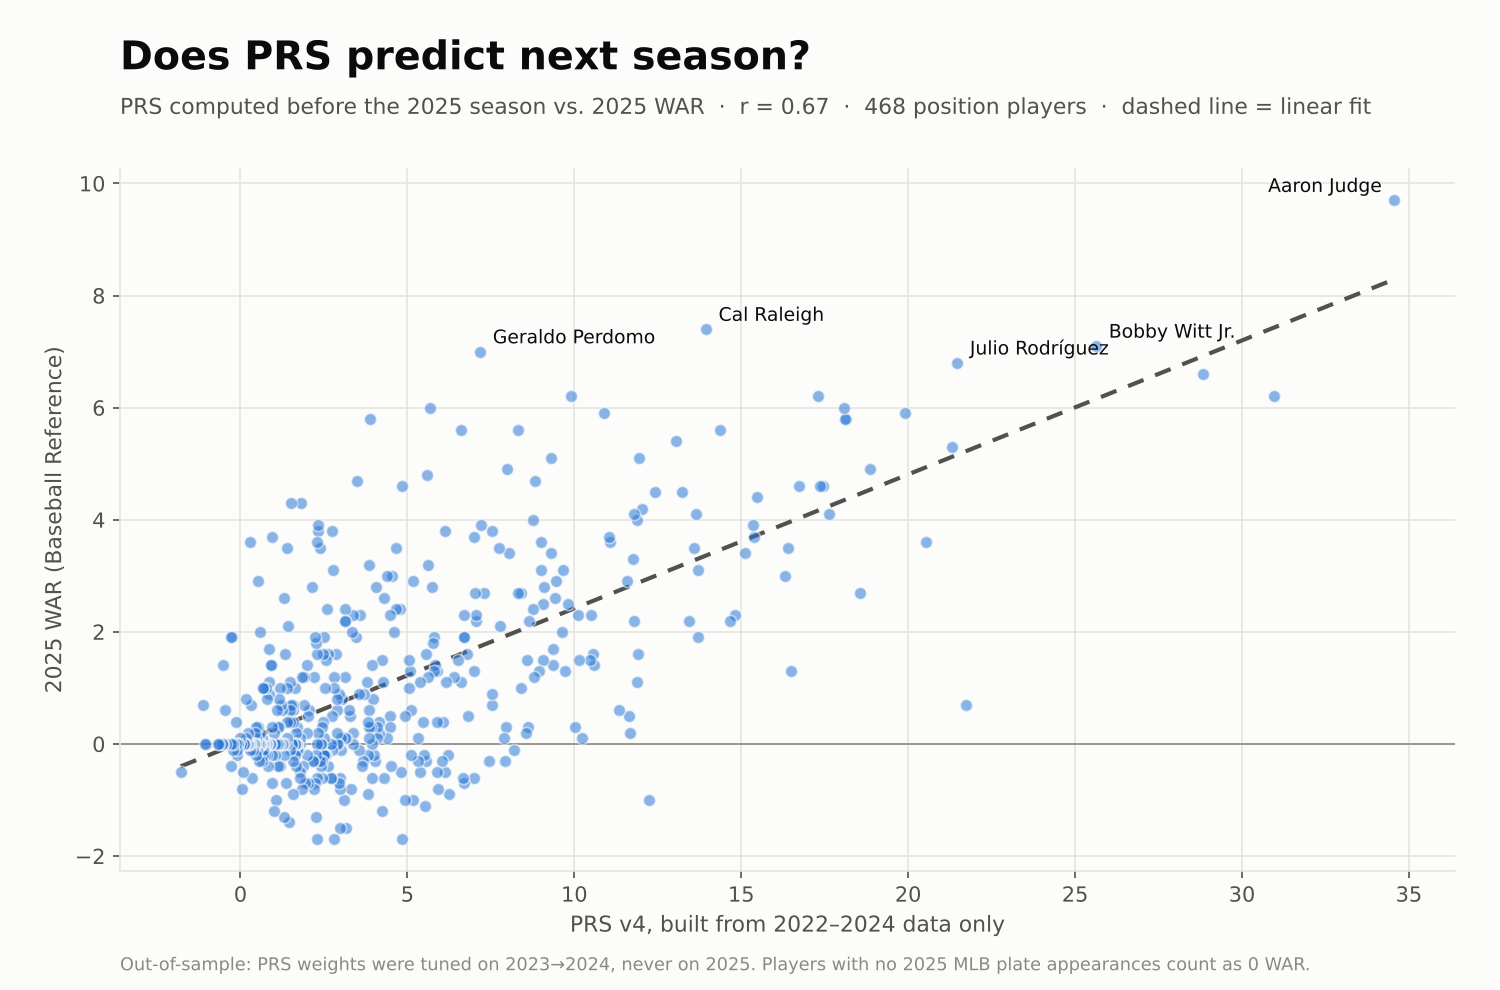
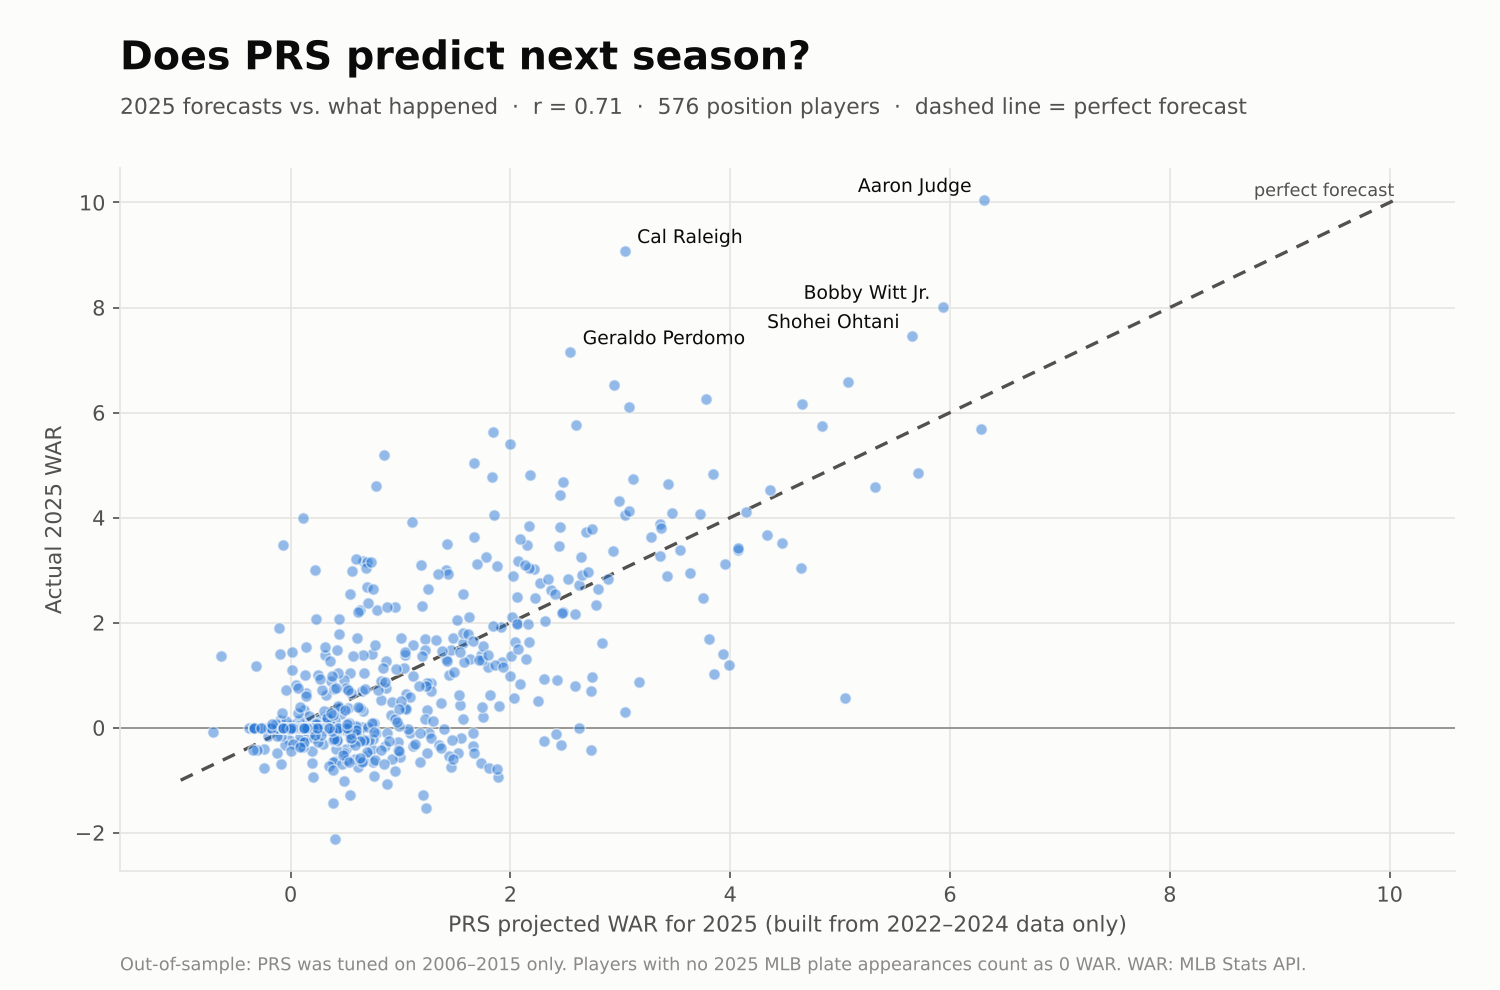
PRS+: 21-season backtest vs Marcel, index scale, new charts
- PRS_README: PRS+ index (100 = average regular, ~1.9 WAR per 100 pts),
  20-season validation tuned on 2006-15 and tested on 2016-26
  (r 0.669 vs Marcel 0.644; beats Marcel 9 of 11), age-bias finding,
  version history, roadmap (risk ranges, 2027 preseason, PRS-P)
- Charts: PRS+ 2026 top 10, PRS vs Marcel by season (new), 2025 scatter
- README summary and dashboard; STATUS.md

Claude-Session: https://claude.ai/code/session_015YDihW75QbFBqSqo9e9Z9f

diff --git a/prs/PRS_README.md b/prs/PRS_README.md
@@ -1,97 +1,97 @@
-# PRS — Player Reliability Score
+# PRS+ — Player Reliability Score
 
 **An original baseball statistic built from scratch in Python.**
 
-## What Is PRS?
+## What Is PRS+?
 
-PRS (Player Reliability Score) measures how much **total value** you can count on getting from an MLB position player next season — not just how good he is, but how reliably he'll be on the field delivering it.
+PRS+ measures how much **total value** you can count on getting from an MLB position player next season — not just how good he is, but how reliably he'll be on the field delivering it.
 
-Most fantasy baseball and front office metrics measure peak performance. PRS measures *dependable* performance. A player who posts elite numbers in 90 games is less valuable than one who posts solid numbers in 155 games. PRS quantifies that gap.
+**How to read it:** 100 = an average MLB regular. 200 = twice the reliable value of an average regular. Every 100 points is roughly **1.9 projected WAR** (100 ≈ 1.9, 200 ≈ 3.8, 300 ≈ 5.6).
+
+Most fantasy baseball and front office metrics measure peak performance. PRS+ measures *dependable* performance. A player who posts elite numbers in 90 games is less valuable than one who posts solid numbers in 155 games. PRS+ quantifies that gap.
 
 ## The Core Idea
 
-PRS = **how good he is** × **how much he plays**
+PRS+ = **how good he is** × **how much he plays**
 
-1. **Hitting Quality** — on-base ability and power over the last three seasons, plus minor-league performance for young players
+1. **Hitting** — on-base ability, power, and overall batting value over the last three seasons, plus minor-league performance for young players
 2. **Age Curve** — young players improve faster than veterans decline
 3. **Base-Running, Defense & Position** — runs added on the bases and in the field, plus credit for playing a harder position
 4. **Availability** — how many plate appearances the player has actually delivered over the last three seasons
 
-The result is a single score that reflects both a player's all-around value and how likely he is to be in the lineup to provide it.
-
 ## Methodology
 
-### Hitting Quality
-On-base percentage and home run rate from the last three seasons, weighted toward the most recent season. For players 27 and under, Triple-A and Double-A stats are blended in after translating them down to MLB level, so a prospect with a short MLB track record isn't judged on a handful of big-league at-bats alone. Rates are regressed toward league average, so a hot 150 plate appearances doesn't outrank a proven full season. Each stat is standardized (z-scored) before blending, so every component counts as much as its weight says.
+### Hitting
+On-base percentage, home run rate, and total batting runs from the last three seasons, weighted toward the most recent season. For players 27 and under, Triple-A and Double-A stats are blended in after translating them down to MLB level, so a prospect with a short MLB track record isn't judged on a handful of big-league at-bats alone. Each stat is standardized (z-scored) before blending, so every component counts as much as its weight says.
 
 ### Age Curve
-Players are adjusted by their age during the season (MLB's June 30 convention). The curve is asymmetric: players below their late-20s peak are expected to improve quickly, while veterans decline more gradually.
+Players are adjusted by their age during the season (MLB's June 30 convention). The curve is asymmetric: players below their late-20s peak are expected to improve, while veterans decline.
 
 ### Base-Running, Defense & Position
-Three-season base-running runs, fielding runs, and positional value (a shortstop is worth more than a first baseman with the same bat) from the MLB Stats API, converted to a per-600-plate-appearance rate and standardized. Hitting still carries the most weight.
+Three-season base-running runs, fielding runs, and positional value (a shortstop is worth more than a first baseman with the same bat) from the MLB Stats API, converted to a per-600-plate-appearance rate and standardized.
 
 ### Availability
-Plate appearances over the last three seasons, weighted toward the most recent. A missed season counts as zero — that's the reliability in Player Reliability Score. Seasons before a player's MLB debut are skipped rather than counted as missed, so rookies aren't penalized for not having been called up yet, and young players get a small bump for the playing time they tend to earn. Projections are capped at a full, healthy season.
+Plate appearances over the last three seasons, weighted toward the most recent. A missed season counts as zero — that's the reliability in Player Reliability Score. Seasons before a player's MLB debut are skipped rather than counted as missed, young players get a bump for the playing time they tend to earn, and projections are capped at a full, healthy season. The shortened 2020 season is scaled to a 162-game pace.
 
-## Validation
+## Validation — 21 Seasons vs. Marcel
 
-PRS is tested the hard way: build it using **only data available before a season**, then check how well it predicts that **next** season's WAR (Wins Above Replacement, Baseball Reference). Each version was tuned on one season and tested on seasons it had never seen.
+PRS+ is tested the hard way: build it using **only data available before a season**, then check how well it predicts that **next** season's WAR. It is compared against **Marcel**, the standard public baseline projection system (Tom Tango), and against simply using last season's WAR.
 
-| PRS built from | Tested against | v1 | v2 (offense only) | v3 (+ defense) | **v4 (current)** | Prior-year WAR | Plain OPS |
-|---|---|---|---|---|---|---|---|
-| 2021–2023 | 2024 WAR | 0.43 | 0.58 | 0.63 | **0.65** *(tuning season)* | — | 0.32 |
-| 2022–2024 | 2025 WAR | 0.46 | 0.57 | 0.66 | **0.67** | 0.66 | 0.35 |
-| 2023–2025 | 2026 WAR* | 0.34 | 0.38 | 0.41 | **0.42** | 0.43 | 0.29 |
+All settings were tuned on **2006–2015 only**. The **2016–2026** seasons were never seen during tuning.
 
-<sub>Pearson correlation (r), ~440–480 position players per season. \*2026 WAR is a partial-season snapshot (through late May), which lowers every correlation. Prior-year WAR = Baseball Reference WAR from the base season (not available for 2023).</sub>
+![PRS vs Marcel](PRS_vs_Marcel.png)
+
+| Test seasons 2016–2026 (11 seasons) | **PRS+** | Marcel | Last year's WAR |
+|---|---|---|---|
+| Correlation with actual WAR (r) | **0.669** | 0.644 | 0.618 |
+| Average miss (WAR) | **0.86** | 0.89 | 0.93 |
+| Within 2 WAR of actual | **88.9%** | 88.3% | 87.7% |
+| Top 25 that finished top 25 in WAR | **10.7** | 10.4 | 9.7 |
+| Seasons PRS+ beat Marcel (r / average miss) | — | 9 of 11 / 10 of 11 | — |
+
+<sub>~525–590 position players per season with 200+ plate appearances over the prior three seasons. Target: MLB Stats API WAR (2020 scaled to 162 games). Players with no MLB plate appearances the next season count as 0 WAR.</sub>
 
 **Key findings:**
-- PRS v4 predicts next-season WAR at **r ≈ 0.67 on data it was never tuned on** — slightly better than last season's WAR itself (0.66) and MLB's own WAR figure (0.64).
-- In practice (2025): the typical miss is under 1 WAR, 87% of players land within 2 WAR, and 18 of PRS's top 25 finished in the actual WAR top 50 (23 in the top 100).
-- **Availability was the biggest single improvement** (about +0.12 r over a rate-only score).
-- **Base-running, defense, and position added about +0.08 r**; each one helps on its own, with positional value contributing the most.
-- The age adjustment adds real predictive value (about +0.05 r).
-- **Young players are the hardest to project.** v4's debut-aware availability, asymmetric age curve, and minor-league stats raised accuracy for players 25 and under from r = 0.57 to 0.61 (2025). The remaining big misses are genuine breakouts — players whose MLB and minor-league numbers gave no hint of a 6–7 WAR season.
+- PRS+ beats Marcel in **9 of the 11 seasons it never saw**, with a smaller average miss in 10 of 11.
+- **Availability was the biggest single improvement** over a rate-only score; base-running, defense, and position were next.
+- **No age bias.** Marcel underrates players 23 and under by about 0.6 WAR and overrates players 34+ by about 0.35 WAR; PRS+ misses every age group by about the same small amount.
+- **Where it's even:** at the very top of the rankings PRS+ and Marcel identify stars about equally well, and neither can foresee true breakouts — players whose past numbers gave no hint of a 6–7 WAR season.
 
-### What changed from v1
-PRS v1 was validated against **same-season** 2026 WAR (r = 0.675), using a partial-season WAR file. That mostly confirmed that PRS and WAR were measuring the same two months of hitting, not that PRS predicts anything. Backtesting showed:
-- v1's **resilience modifier** (OBP in the 15 games before vs. after an absence) did not improve predictions — 15-game windows are too small to separate a real bounce-back from luck — so it was removed.
-- v1 had no true availability component; plate-appearance history alone predicted next-season WAR as well as v1 did.
-- Batting average was dropped as largely redundant with OBP.
-- v1 measured offense only, so it couldn't account for the defense, base-running, and positional value that WAR rewards.
+### Version history
+- **v1** was validated against same-season, partial-year WAR (r = 0.675). That mostly confirmed PRS and WAR were measuring the same two months of hitting, not that PRS predicts anything. Its resilience modifier (OBP before vs. after an absence) didn't improve forecasts and was removed.
+- **v2–v4** added availability, defense/base-running/position, and young-player handling, validated on 2024–2026.
+- **v5 (PRS+)** re-tuned everything on 2006–2015, added overall batting value, switched to the PRS+ index, and was tested on 11 unseen seasons against Marcel.
+
+## Sample Output — PRS+, 2026
+
+![PRS Rankings Dashboard](PRS_Rankings_Dashboard.png)
+
+```
+rank  name                 age   2026 PA   PRS+   proj. WAR
+1     Bobby Witt Jr.        26     632     367      7.1
+2     Pete Crow-Armstrong   24     726     327      6.4
+3     Juan Soto             27     482     296      5.8
+4     Elly De La Cruz       24     636     295      5.7
+5     JJ Wetherholt         23     619     285      5.6
+```
+
+### Does PRS+ predict next season? 2025 forecasts vs. actual
+![PRS vs WAR Scatter](PRS_vs_WAR_Scatter.png)
 
 ## Tech Stack
 
 - **Python 3.14**
-- **pandas** — data manipulation and weighted calculations
+- **pandas / numpy** — data manipulation, weighting, and backtesting
 - **requests** — MLB Stats API calls (no authentication required)
-- **MLB Stats API** — MLB and minor-league season stats, base-running/fielding/positional run values, player bios
-- **Baseball Reference** — WAR data for validation
-
-## Sample Output — PRS v4, 2026
-
-```
-name                 team                    age   PA   OBP   HR   prs
-Bobby Witt Jr.       Kansas City Royals       26   632  .359   18  26.6
-Shohei Ohtani        Los Angeles Dodgers      31   618  .377   30  26.5
-Pete Crow-Armstrong  Chicago Cubs             24   726  .372   45  26.3
-Juan Soto            New York Mets            27   482  .393   27  26.0
-Elly De La Cruz      Cincinnati Reds          24   636  .365   30  25.3
-```
-
-## Dashboard (PRS v4)
-
-### PRS Rankings — 2026 Top 10
-![PRS Rankings Dashboard](PRS_Rankings_Dashboard.png)
-
-### Out-of-Sample Validation — PRS (2022–24 data) vs. 2025 WAR, r = 0.67
-![PRS vs WAR Scatter](PRS_vs_WAR_Scatter.png)
+- **MLB Stats API** — MLB and minor-league stats, base-running/fielding/positional run values, WAR, player bios (2003–2026)
+- **matplotlib** — charts
 
 ## What's Next
 
-- **PRS-P** — a pitcher version using ERA, strikeout rate, and innings pitched
-- **Tableau dashboard** — interactive PRS leaderboard by position
-- **Performance Resilience Score** — revisit resilience with larger samples (e.g. full months, minor-league returns) and keep it only if it improves the backtest
+- **Risk ranges** — an 80% range for each player's projection (e.g. "4.5–8.0 WAR") and playing-time odds, checked against 20 years of history
+- **2027 preseason rankings** — published before Opening Day and graded at season's end
+- **PRS-P** — a pitcher version
+- **Tableau dashboard** — interactive PRS+ leaderboard by position
 
 ## About
 

diff --git a/STATUS.md b/STATUS.md
@@ -2,15 +2,15 @@
 
 ## Current state
 
-Public sports analytics portfolio: PRS (README only; code kept private), Infield Weekly Report (overhauled and verified on live MLB data), Yahoo pitcher tracker, and learning files. READMEs now describe PRS v4 (adds young-player handling: debut-aware availability, age curve, minor-league stats) and its out-of-sample validation (r ≈ 0.67 vs next-season WAR, slightly above prior-year WAR). Everything is on PR #1, awaiting merge.
+Public sports analytics portfolio: PRS+ (README and charts only; code kept private), Infield Weekly Report (overhauled, verified on live data), Yahoo pitcher tracker, learning files. PRS+ v5 is an index (100 = average regular) backtested over 21 seasons: tuned on 2006–15, beats Marcel in 9 of 11 unseen seasons (r 0.669 vs 0.644). All work is on PR #1, awaiting merge.
 
 ## Last change
 
-2026-10-06 — Infield report overhaul + live May 4–10 rerun; private PRS backtest, v2→v3→v4 (v1 r 0.46 → v4 r 0.67 on 2024→2025 WAR; under-25s 0.57 → 0.61); rewrote both READMEs around the out-of-sample backtest and rebuilt the PRS chart images for v4.
+2026-10-07 — PRS v5 / PRS+: pulled 2003–2026 MLB + minor-league data, built a 20-season backtest with a Marcel baseline, re-tuned on 2006–15 only, added the PRS+ index and batting runs; rewrote PRS README; new charts (PRS+ top 10, PRS vs Marcel by season, 2025 forecast scatter).
 
 ## Next step
 
-Merge PR #1. Then pick the next PRS item from `prs/PRS_README.md` "What's Next" (PRS-P pitcher version or Tableau leaderboard).
+Merge PR #1. Then build PRS+ risk ranges (80% projection range + playing-time odds, calibrated on 2006–2015, checked on 2016–2026), then PRS-P for pitchers.
 
 ## Blockers
 

diff --git a/README.md b/README.md
@@ -17,13 +17,12 @@ from Python fundamentals through original statistical research.
 
 ## Projects
 
-### PRS — Player Reliability Score
+### PRS+ — Player Reliability Score
 An original MLB statistic measuring reliable all-around value:
-how good a player is × how much he actually plays.
-Combines three-season hitting quality (with minor-league stats
-for young players), an age curve, base-running, defense, positional
-value, and plate-appearance availability. Backtested out of sample:
-predicts next-season WAR at r = 0.67 — slightly better than prior-year WAR.
+how good a player is × how much he actually plays, on an index
+where 100 = an average MLB regular. Backtested over 21 seasons:
+on the 11 seasons it was never tuned on, PRS+ beats the Marcel
+projection system in 9 (r = 0.669 vs 0.644 against next-season WAR).
 
 📁 [/prs](./prs)
 
@@ -51,15 +50,15 @@ Phase 1 and Phase 2 of the analytics roadmap.
 
 ## Dashboard
 
-### PRS Rankings — 2026 Top 10 (v4)
+### PRS+ Rankings — 2026 Top 10
 ![PRS Rankings Dashboard](prs/PRS_Rankings_Dashboard.png)
 
-### Does PRS Predict Next Season? (built from 2022–24, tested on 2025 WAR)
-![PRS vs WAR Scatter](prs/PRS_vs_WAR_Scatter.png)
+### PRS+ vs. Marcel — 21 Seasons of Forecasts
+![PRS vs Marcel](prs/PRS_vs_Marcel.png)
 
 ---
 
 ## Tech Stack
 - Python 3.14
-- pandas · matplotlib · requests
+- pandas · numpy · matplotlib · requests
 - MLB Stats API · Baseball Reference
